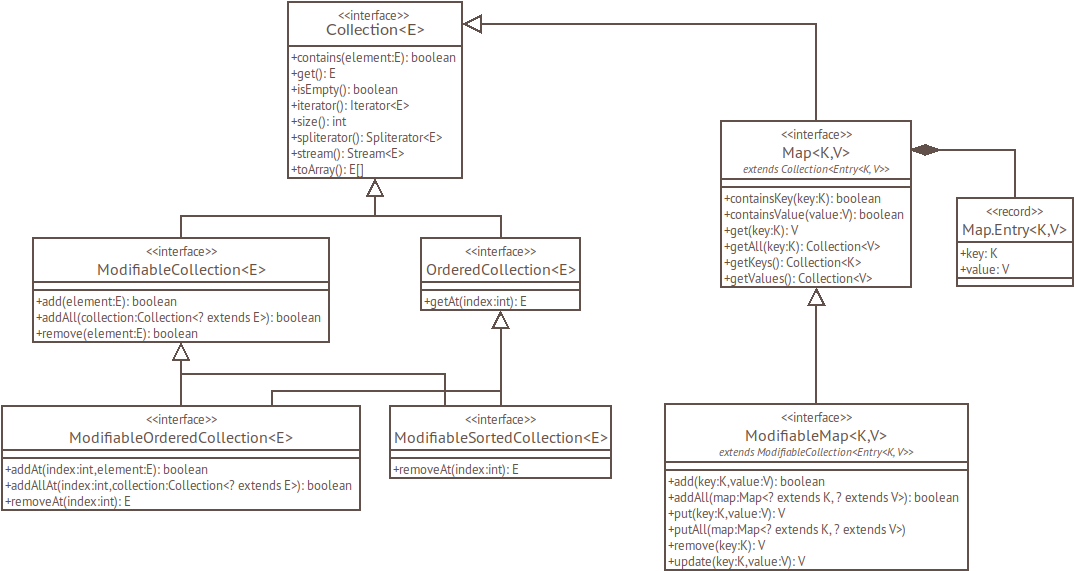
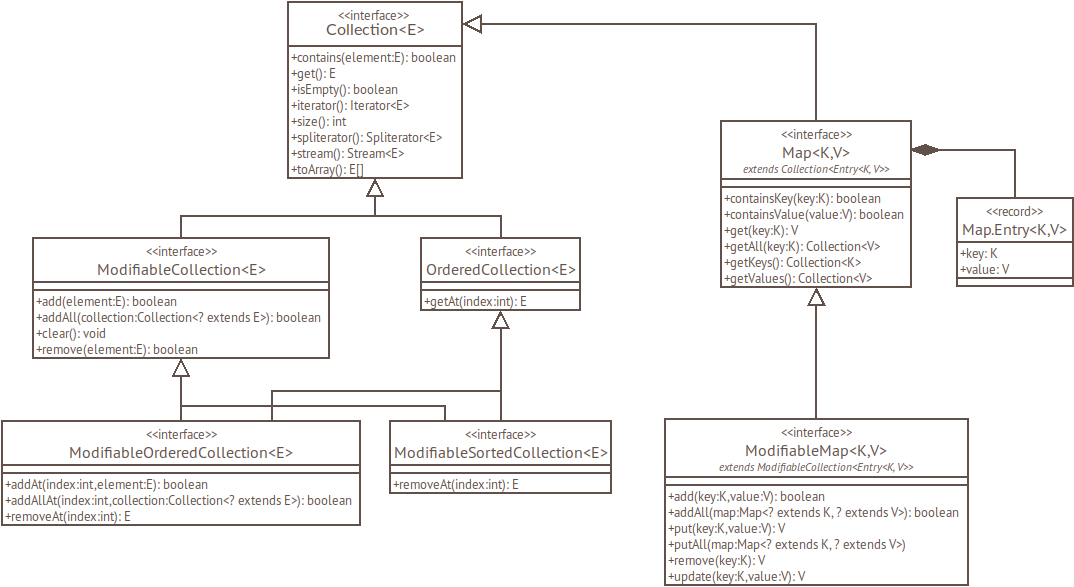
Added clear() to ModifiableCollection

diff --git a/src/main/java/net/filipvanlaenen/kolektoj/array/ModifiableArrayCollection.java b/src/main/java/net/filipvanlaenen/kolektoj/array/ModifiableArrayCollection.java
@@ -58,6 +58,17 @@ public final class ModifiableArrayCollection<E> implements ModifiableCollection<
     }
 
     @Override
+    public void clear() {
+        size = 0;
+        // EQMU: Changing the conditional boundary below produces an equivalent mutant.
+        // EQMU: Negating the conditional below produces an equivalent mutant.
+        if (elements.length > STRIDE) {
+            // EQMU: Removing the call to resizeTo below produces an equivalent mutant.
+            resizeTo(STRIDE);
+        }
+    }
+
+    @Override
     public boolean contains(final E element) {
         for (int i = 0; i < size; i++) {
             E e = elements[i];

diff --git a/src/main/java/net/filipvanlaenen/kolektoj/array/ModifiableOrderedArrayCollection.java b/src/main/java/net/filipvanlaenen/kolektoj/array/ModifiableOrderedArrayCollection.java
@@ -90,6 +90,17 @@ public final class ModifiableOrderedArrayCollection<E> implements ModifiableOrde
     }
 
     @Override
+    public void clear() {
+        size = 0;
+        // EQMU: Changing the conditional boundary below produces an equivalent mutant.
+        // EQMU: Negating the conditional below produces an equivalent mutant.
+        if (elements.length > STRIDE) {
+            // EQMU: Removing the call to resizeTo below produces an equivalent mutant.
+            resizeTo(STRIDE);
+        }
+    }
+
+    @Override
     public boolean contains(final E element) {
         for (int i = 0; i < size; i++) {
             E e = elements[i];

diff --git a/src/test/java/net/filipvanlaenen/kolektoj/array/ModifiableArrayCollectionTest.java b/src/test/java/net/filipvanlaenen/kolektoj/array/ModifiableArrayCollectionTest.java
@@ -236,4 +236,14 @@ public class ModifiableArrayCollectionTest {
         collection.remove(1);
         assertFalse(collection.contains(1));
     }
+
+    /**
+     * Verifies that when a collection is cleared, it becomes empty.
+     */
+    @Test
+    public void clearShouldMakeCollectionEmpty() {
+        ModifiableCollection<Integer> collection = createNewCollection();
+        collection.clear();
+        assertTrue(collection.isEmpty());
+    }
 }

diff --git a/src/main/java/net/filipvanlaenen/kolektoj/ModifiableCollection.java b/src/main/java/net/filipvanlaenen/kolektoj/ModifiableCollection.java
@@ -46,6 +46,11 @@ public interface ModifiableCollection<E> extends Collection<E> {
     boolean addAll(Collection<? extends E> collection);
 
     /**
+     * Removes all elements from the collection.
+     */
+    void clear();
+
+    /**
      * Removes an element from this collection if it is present.
      *
      * @param element The element to be removed from the collection.

diff --git a/README.md b/README.md
@@ -56,7 +56,7 @@ interface map to Kolektoj methods.
 |-----------------------------------------------------------|----------------------------|-------------------------------------------------------|
 | boolean add(E e)                                          | ModifiableCollection&lt;E> | boolean add(E element)                                |
 | boolean addAll(Collection&lt;? extends E> c)              | ModifiableCollection&lt;E> | boolean addAll(Collection&lt;? extends E> collection) |
-| void clear()                                              |                            |                                                       |
+| void clear()                                              | ModifiableCollection&lt;E> | void clear()                                          |
 | boolean contains(Object o)                                | Collection&lt;E>           | boolean contains(E element)                           |
 | boolean containsAll(Collection&lt;?> c)                   |                            |                                                       |
 | boolean equals(Object o)                                  |                            |                                                       |
